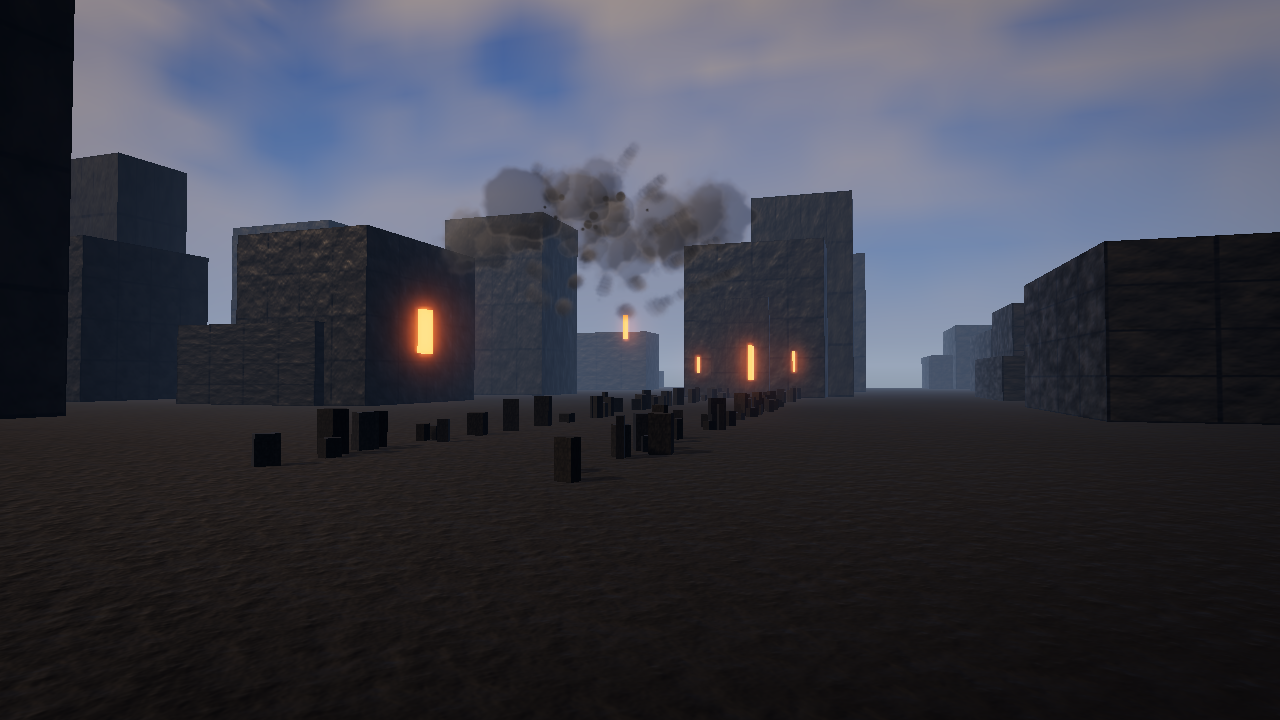
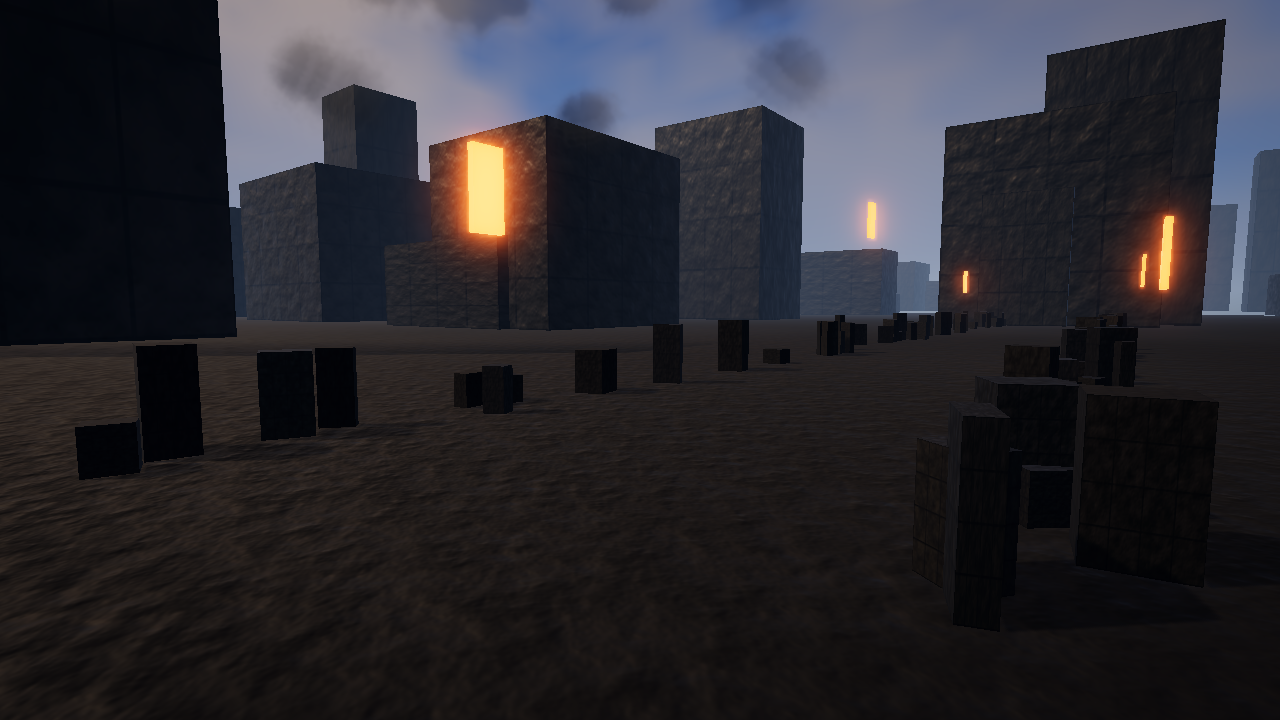
Checkpoint in-flight workstreams
Claude-Session: https://claude.ai/code/session_01Eu52StAEGMiytM7UTvKy5J

diff --git a/src/assets/__tests__/fallback.test.ts b/src/assets/__tests__/fallback.test.ts
@@ -1,0 +1,184 @@
+/**
+ * FALLBACKS AND MATERIAL CONSTRUCTION
+ *
+ * Two things are checked here that a screenshot cannot check for you:
+ *
+ *  - a missing asset produces something a HUMAN will notice AND something a
+ *    TEST can assert on. Flat magenta fails the second half: it looks like a
+ *    stylised surface in a dark frame, and nothing in the scene graph says
+ *    "this is broken".
+ *
+ *  - the packed ORM map binds to all three slots with `aoMap.channel = 0`.
+ *    These meshes have no UV1; AO reading channel 1 samples an attribute that
+ *    does not exist.
+ */
+
+import { describe, it, expect } from 'vitest';
+import * as THREE from 'three';
+import type { IMaterialAsset, TextureHandle } from '@/types';
+import {
+  disposeFallbacks,
+  isMissingAsset,
+  missingEnvironment,
+  missingMaterial,
+  missingModel,
+  missingTexture,
+} from '../fallback';
+import { buildMaterial, requiredTextures } from '../materials';
+import { bindPackedOrm, ManagedTextureHandle, withRepeat } from '../textures';
+import { parseRuntimeManifest } from '../manifest';
+import { testManifest } from './fixtures';
+
+function handleFor(key: string): TextureHandle {
+  const texture = new THREE.CompressedTexture([], 64, 64, THREE.RGBA_BPTC_Format);
+  texture.name = key;
+  return new ManagedTextureHandle({ key, texture, colorSpace: 'linear', tier: 'mobile' });
+}
+
+describe('missing-asset fallbacks', () => {
+  it('is a marked checker, not a flat magenta fill', () => {
+    disposeFallbacks();
+    const texture = missingTexture();
+    const data = texture.image.data as Uint8Array;
+
+    const colours = new Set<string>();
+    for (let i = 0; i < data.length; i += 4) {
+      colours.add(`${data[i]},${data[i + 1]},${data[i + 2]}`);
+    }
+    // Magenta, near-black and the diagonal slash: three distinct colours means
+    // it cannot read as a single stylised surface.
+    expect(colours.size).toBe(3);
+    expect(colours.has('255,0,200')).toBe(true);
+    expect(colours.has('12,12,16')).toBe(true);
+    expect(colours.has('255,255,0')).toBe(true);
+  });
+
+  it('is detectable programmatically on every kind of stand-in', () => {
+    expect(isMissingAsset(missingTexture())).toBe(true);
+    expect(isMissingAsset(missingMaterial('mat.x'))).toBe(true);
+    expect(isMissingAsset(missingModel('model.x'))).toBe(true);
+    expect(isMissingAsset(missingEnvironment('hdri.x'))).toBe(true);
+    expect(isMissingAsset(new THREE.MeshStandardMaterial())).toBe(false);
+    expect(isMissingAsset(undefined)).toBe(false);
+  });
+
+  it('names the asset it stands in for', () => {
+    const material = missingMaterial('mat.road.asphalt.worn');
+    expect(material.name).toBe('MISSING:mat.road.asphalt.worn');
+    expect(material.userData.missingKey).toBe('mat.road.asphalt.worn');
+
+    const model = missingModel('model.building.a');
+    expect(model.name).toBe('MISSING:model.building.a');
+  });
+
+  it('leaves a missing environment neutral rather than magenta', () => {
+    const environment = missingEnvironment('hdri.sky.day');
+    const data = environment.image.data as Uint8Array;
+    // A magenta environment map tints the entire world and makes the build
+    // unusable rather than merely obviously broken.
+    expect(data[0]).toBeLessThan(data[2]!);
+    expect(Math.abs(data[0]! - data[1]!)).toBeLessThan(16);
+    expect(environment.mapping).toBe(THREE.EquirectangularReflectionMapping);
+  });
+
+  it('shares one texture instance across every miss', () => {
+    expect(missingTexture()).toBe(missingTexture());
+  });
+});
+
+describe('buildMaterial', () => {
+  const manifest = parseRuntimeManifest(testManifest());
+  const entry = manifest.entries.find(
+    (candidate) => candidate.id === 'mat.road.asphalt.worn'
+  ) as IMaterialAsset;
+
+  it('binds one ORM texture to all three slots with aoMap.channel 0', () => {
+    const handles = new Map<string, TextureHandle>();
+    for (const key of requiredTextures(entry)) handles.set(key, handleFor(key));
+
+    const built = buildMaterial(entry, (key) => handles.get(key));
+    const material = built.material as THREE.MeshStandardMaterial;
+
+    expect(built.ormBound).toBe(true);
+    expect(material.aoMap).not.toBeNull();
+    expect(material.aoMap).toBe(material.roughnessMap);
+    expect(material.aoMap).toBe(material.metalnessMap);
+    expect(material.aoMap?.channel).toBe(0);
+    expect(material.aoMap?.name).toBe('mat.road.asphalt.worn.orm');
+  });
+
+  it('keeps roughness and metalness at 1 so the ORM channels pass through', () => {
+    const handles = new Map<string, TextureHandle>();
+    for (const key of requiredTextures(entry)) handles.set(key, handleFor(key));
+    const material = buildMaterial(entry, (key) => handles.get(key))
+      .material as THREE.MeshStandardMaterial;
+    // three multiplies scalar by sampled channel; anything below 1 darkens the
+    // whole map.
+    expect(material.roughness).toBe(1);
+    expect(material.metalness).toBe(1);
+  });
+
+  it('puts albedo in sRGB and the data maps in linear', () => {
+    const handles = new Map<string, TextureHandle>();
+    for (const key of requiredTextures(entry)) handles.set(key, handleFor(key));
+    const material = buildMaterial(entry, (key) => handles.get(key))
+      .material as THREE.MeshStandardMaterial;
+    expect(material.map?.colorSpace).toBe(THREE.SRGBColorSpace);
+    expect(material.normalMap?.colorSpace).toBe(THREE.NoColorSpace);
+    expect(material.roughnessMap?.colorSpace).toBe(THREE.NoColorSpace);
+  });
+
+  it('retains every texture it binds so nothing can be evicted underneath it', () => {
+    const handles = new Map<string, TextureHandle>();
+    for (const key of requiredTextures(entry)) handles.set(key, handleFor(key));
+    const built = buildMaterial(entry, (key) => handles.get(key));
+    expect(built.handles).toHaveLength(3);
+    for (const handle of handles.values()) expect(handle.refCount).toBe(1);
+  });
+
+  it('substitutes the marked pattern and reports the gap when a map is absent', () => {
+    const built = buildMaterial(entry, () => undefined);
+    const material = built.material as THREE.MeshStandardMaterial;
+    expect(built.missingTextures).toHaveLength(3);
+    expect(isMissingAsset(material.map ?? undefined)).toBe(true);
+    // It still built a usable material — no throw, no null material.
+    expect(material.isMeshStandardMaterial).toBe(true);
+  });
+
+  it('lists every texture the spec needs, including ones textureKeys forgot', () => {
+    expect(requiredTextures(entry)).toEqual([
+      'mat.road.asphalt.worn.albedo',
+      'mat.road.asphalt.worn.normal',
+      'mat.road.asphalt.worn.orm',
+    ]);
+  });
+});
+
+describe('texture slot helpers', () => {
+  it('bindPackedOrm forces the AO channel to UV0', () => {
+    const material = new THREE.MeshStandardMaterial();
+    const orm = new THREE.Texture();
+    orm.channel = 1;
+    bindPackedOrm(material, orm);
+    expect(orm.channel).toBe(0);
+    expect(material.aoMap).toBe(orm);
+    expect(material.roughnessMap).toBe(orm);
+    expect(material.metalnessMap).toBe(orm);
+  });
+
+  it('withRepeat clones rather than retiling the shared texture', () => {
+    const shared = new THREE.Texture();
+    const tiled = withRepeat(shared, [4, 4]);
+    expect(tiled).not.toBe(shared);
+    expect(tiled.repeat.x).toBe(4);
+    expect(shared.repeat.x).toBe(1);
+    // A clone shares `source`, so three still uploads one GPU texture.
+    expect(tiled.source).toBe(shared.source);
+  });
+
+  it('withRepeat returns the original when there is nothing to change', () => {
+    const shared = new THREE.Texture();
+    expect(withRepeat(shared, [1, 1])).toBe(shared);
+    expect(withRepeat(shared, undefined)).toBe(shared);
+  });
+});

diff --git a/.probe-alloc.ts b/.probe-alloc.ts
@@ -1,0 +1,98 @@
+import v8 from 'node:v8';
+import vm from 'node:vm';
+import type { GameEventPayload, GameEventType, IEventBus } from '@/types';
+import { DestructionSystem } from '@/gameplay/destruction';
+import { collapsingFloors } from '@/world/city';
+import { FakeDebrisPool, makeTower } from '@/gameplay/destruction/__tests__/fixtures';
+
+v8.setFlagsFromString('--expose_gc');
+const gc = vm.runInNewContext('gc') as () => void;
+
+function nullBus(): IEventBus {
+  return {
+    on: () => () => {}, once: () => () => {}, off: () => {},
+    emit: <T extends GameEventType>(_t: T, _p: GameEventPayload<T>) => {},
+    onAny: () => () => {}, clear: () => {}, listenerCount: () => 0, setFrame: () => {},
+  };
+}
+
+function build(n: number, debris?: FakeDebrisPool) {
+  const system = new DestructionSystem({ bus: nullBus(), debris, collapsingFloors, seed: 'p' });
+  const structures = [];
+  for (let i = 0; i < n; i++) {
+    const { layout, attribute } = makeTower({ floors: 12, footprint: 10 });
+    structures.push(system.register({
+      id: `t-${String(i).padStart(4,'0')}`, layout, target: { destroyed: attribute },
+      position: { x: 12 + i * 14, y: 0, z: 0 },
+    }));
+  }
+  return { system, structures };
+}
+
+function report(label: string, before: number, after: number, n: number) {
+  const total = Math.max(0, after - before);
+  console.log(`${label}: ${n} detaches, ${total} B, ${(total / n).toFixed(2)} B/detach`);
+}
+
+// 1. pure detach, no debris, no collapse evaluation
+{
+  const { system, structures } = build(240);
+  for (let i = 0; i < 40; i++) for (let c = 0; c < 48; c++) system.detachChunk(structures[i]!, c, 'blast');
+  gc(); gc();
+  const before = process.memoryUsage().heapUsed;
+  let n = 0;
+  for (let i = 40; i < 240; i++) for (let c = 0; c < 48; c++) { if (system.detachChunk(structures[i]!, c, 'blast')) n++; }
+  gc(); gc();
+  report('pure detach          ', before, process.memoryUsage().heapUsed, n);
+  system.dispose();
+}
+
+// 2. detach + debris
+{
+  const debris = new FakeDebrisPool(300);
+  const { system, structures } = build(240, debris);
+  for (let i = 0; i < 40; i++) { for (let c = 0; c < 48; c++) system.detachChunk(structures[i]!, c, 'blast'); debris.retire(debris.count); system.update(1/60); }
+  gc(); gc();
+  const before = process.memoryUsage().heapUsed;
+  let n = 0;
+  for (let i = 40; i < 240; i++) { for (let c = 0; c < 48; c++) { if (system.detachChunk(structures[i]!, c, 'blast')) n++; } debris.retire(debris.count); system.update(1/60); }
+  gc(); gc();
+  report('detach + debris      ', before, process.memoryUsage().heapUsed, n);
+  system.dispose();
+}
+
+// 3. sweep only (no collapse: use minimal cone that takes few chunks) -> measure sweep cost
+{
+  const { system } = build(240);
+  for (let k = 0; k < 50; k++) system.applyShockwave({x:-1e6,y:2,z:0},{x:1,y:0,z:0},10,0.05,2.5e6,'full');
+  gc(); gc();
+  const before = process.memoryUsage().heapUsed;
+  const iterations = 5000;
+  for (let k = 0; k < iterations; k++) system.applyShockwave({x:-1e6,y:2,z:0},{x:1,y:0,z:0},10,0.05,2.5e6,'full');
+  gc(); gc();
+  report('empty sweep (per call)', before, process.memoryUsage().heapUsed, iterations);
+  system.dispose();
+}
+
+// 4. full loop with collapse
+{
+  const debris = new FakeDebrisPool(300);
+  const { system } = build(240, debris);
+  for (let step = 0; step < 40; step++) {
+    system.applyShockwave({ x: 12 + step * 14 - 40, y: 2, z: 0 }, { x: 1, y: 0, z: 0 }, 140, 0.35, 2.5e6, 'full');
+    for (let f = 0; f < 4; f++) { system.update(1/60); debris.retire(debris.count); }
+  }
+  gc(); gc();
+  const before = process.memoryUsage().heapUsed;
+  const start = system.diagnostics.chunksDestroyed;
+  const pendBefore = system.diagnostics.pendingCollapseChunks;
+  for (let step = 40; step < 240; step++) {
+    system.applyShockwave({ x: 12 + step * 14 - 40, y: 2, z: 0 }, { x: 1, y: 0, z: 0 }, 140, 0.35, 2.5e6, 'full');
+    for (let f = 0; f < 4; f++) { system.update(1/60); debris.retire(debris.count); }
+  }
+  gc(); gc();
+  const n = system.diagnostics.chunksDestroyed - start;
+  console.log(`pending before=${pendBefore} after=${system.diagnostics.pendingCollapseChunks}`);
+  report('full loop            ', before, process.memoryUsage().heapUsed, n);
+  system.dispose();
+}
